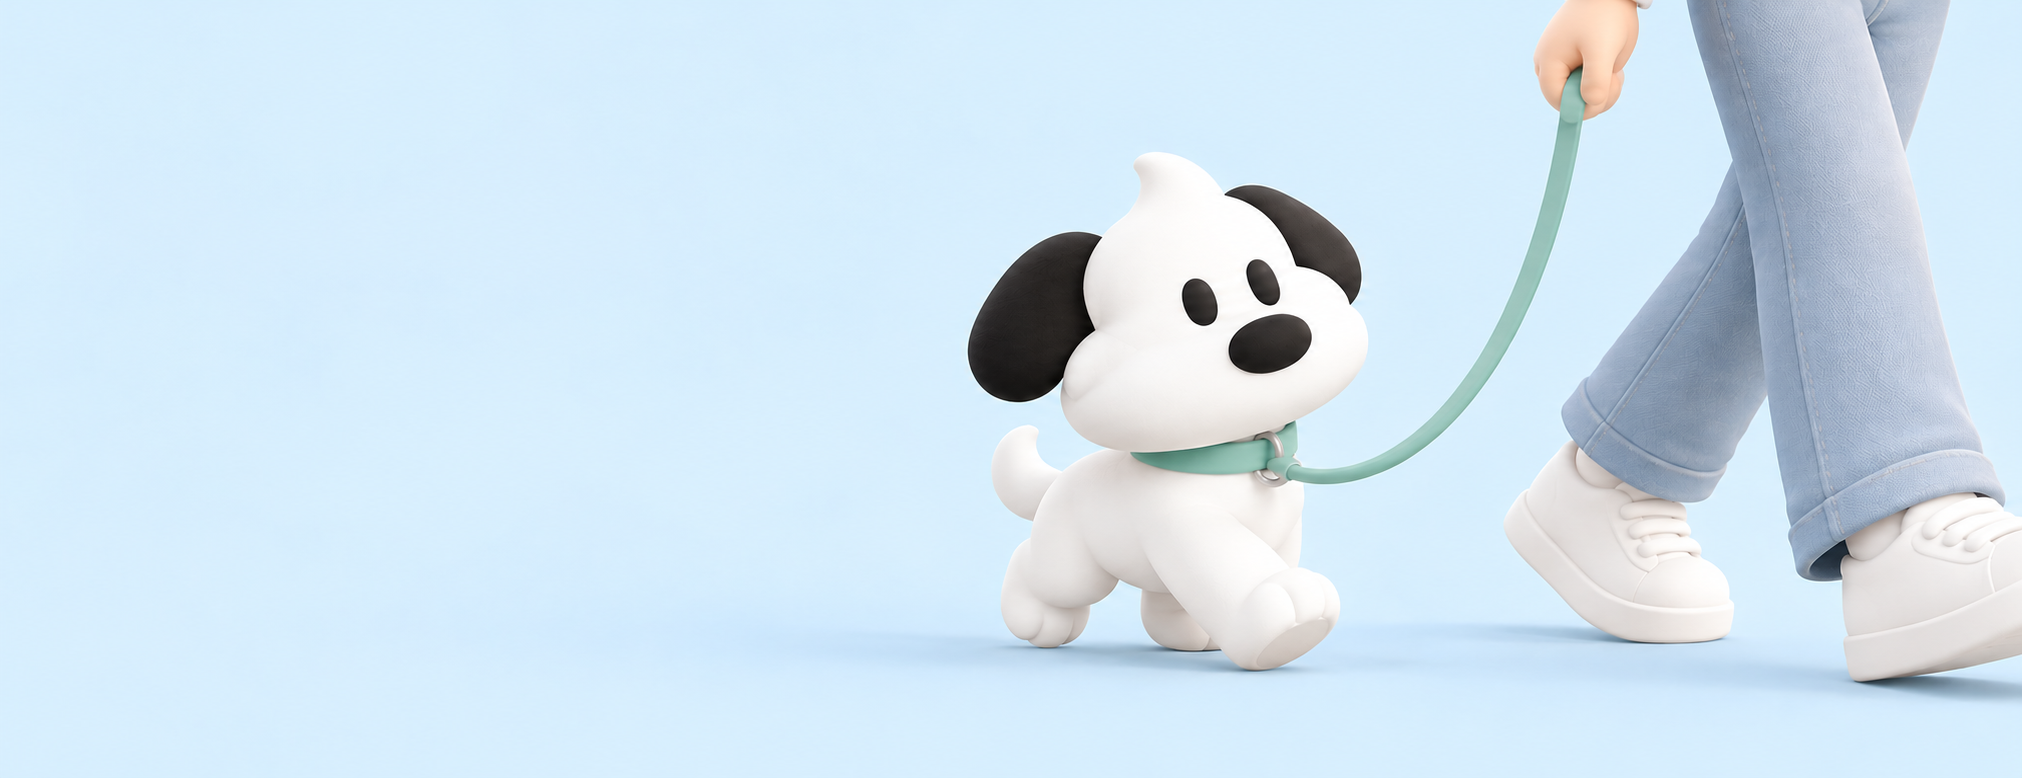
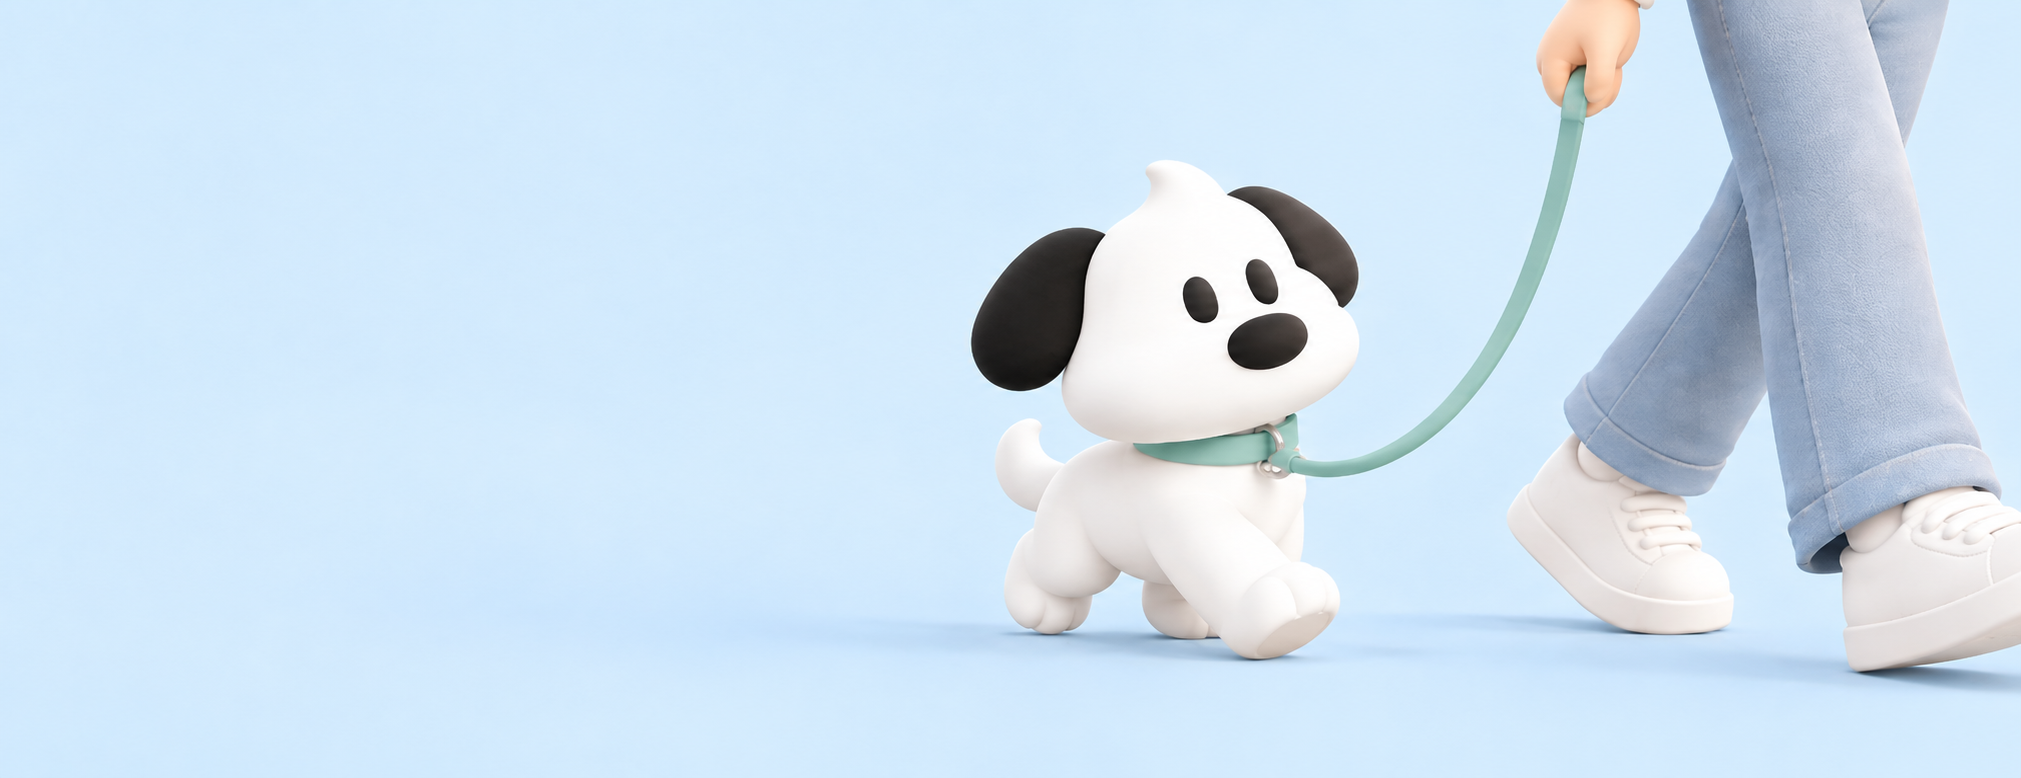
Download card art: smooth 응댕이 face outline

diff --git a/assets/css/site.css b/assets/css/site.css
@@ -250,12 +250,12 @@ body.menu-open { overflow: hidden; }
   .cta-card .stores { grid-column: 1; grid-row: 2; justify-content: flex-start; }
   }
 /* 다운로드 카드 — 주인과 산책하며 올려다보는 응댕이 (ChatGPT 그림, 바탕은 그림과 같은 하늘색) */
-.cta-card { min-height: 560px; padding-bottom: 260px; background: linear-gradient(180deg, #D6EEFE calc(100% - 270px), rgba(214, 238, 254, 0) calc(100% - 200px)), url(/assets/img/cta-walk-1200.webp) 72% 100% / auto 270px no-repeat, #D6EEFE; color: var(--fg); }
+.cta-card { min-height: 560px; padding-bottom: 260px; background: linear-gradient(180deg, #D1E9FD calc(100% - 270px), rgba(209, 233, 253, 0) calc(100% - 200px)), url(/assets/img/cta-walk-1200.webp) 72% 100% / auto 270px no-repeat, #D1E9FD; color: var(--fg); }
 .cta-card .h2 em { font-style: normal; color: var(--brand); }
 .cta-card p { color: var(--fg-2); }
 .cta-card .stores a { box-shadow: 0 8px 20px rgba(30, 80, 120, .12); }
 @media (min-width: 900px) {
-  .cta-card { min-height: 0; padding-bottom: 72px; background: #D6EEFE url(/assets/img/cta-walk.webp) 100% 50% / cover no-repeat; grid-template-columns: 1fr; }
+  .cta-card { min-height: 0; padding-bottom: 72px; background: #D1E9FD url(/assets/img/cta-walk.webp) 100% 50% / cover no-repeat; grid-template-columns: 1fr; }
 }
 
 
